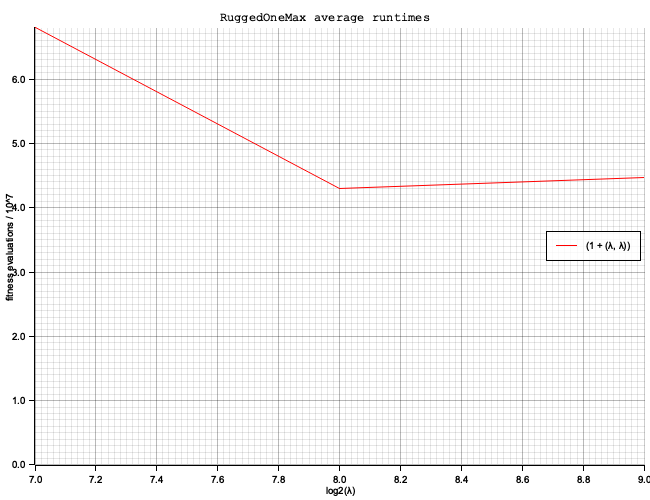
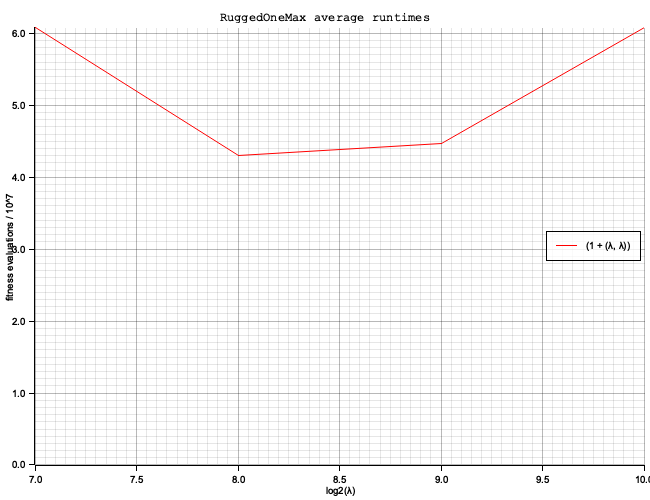
:arrow_up: RuggedOneMax(k = 2), n = 15, (1 + (λ, λ)) results

Changed region(s): [[0.0, 0.06, 1.0, 0.96], [0.9846, 0.93, 1.0, 0.99]]

diff --git a/src/experiment/rugged_runtime/draw.rs b/src/experiment/rugged_runtime/draw.rs
@@ -546,7 +546,12 @@ fn draw_rugged_optimal_15() {
         ),
         (
             "(1 + (λ, λ))",
-            vec![(128.0, 67932422.0), (256.0, 43034264.0), (512.0, 44656008.0)],
+            vec![
+                (128.0, 67932422.0),
+                (256.0, 43034264.0),
+                (512.0, 44656008.0),
+                (1024.0, 60736224.0),
+            ],
         ),
     ];
 
@@ -576,13 +581,4 @@ fn draw_rugged_optimal_15() {
         |(n, iters)| (n.log2(), iters / 10_000_000.0),
         results[1..].to_vec(),
     );
-
-    // draw_runtime(
-    //     "rugged-onemax/optimal-parameters/15-ollga-zoom",
-    //     "log2(λ)",
-    //     "fitness evaluations / 10^4",
-    //     "RuggedOneMax average runtimes",
-    //     |(n, iters)| (n.log2(), iters / 10_000.0),
-    //     vec![(results[1].0, results[1].1[3..8].to_vec())],
-    // );
 }
